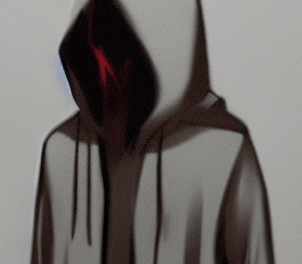
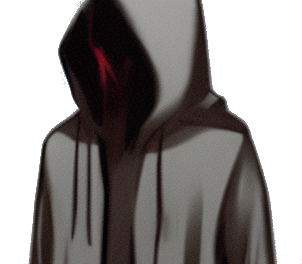
wip

diff --git a/index.html b/index.html
@@ -7,55 +7,9 @@
     <meta name="viewport" content="width=device-width, initial-scale=1.0">
     <title>Document</title>
     <script src="index.js" defer></script>
-    <style media="screen">
-        * {
-         margin: 0;
-         padding: 0;
-       }
-     
-    
-       body {
-         background-color: #10101a;
-         /*display: flex;*/
-         justify-content: center;
-         align-items: center;
-         width: 100%;
-         height: 100%;
-         overflow: hidden;
-         z-index: -2;
-       }
-    
-    
-    
-       hr {
-         width: 1px;
-         border-color: transparent;
-         border-right-color: rgba(94, 93, 96, 0.863);
-         border-right-width: 5px;
-         position: absolute;
-         bottom: 100%;
-         transform-origin: 100% 50%;
-         animation-name: rain;
-         animation-duration: .5s;
-         animation-timing-function: linear;
-         animation-iteration-count: infinite;
-         z-index: -1;
-       }
-    
-       @keyframes rain {
-         from {
-           transform: rotate(90deg) translateX(0);
-         } 
-         to {
-           transform: rotate(90deg) translateX(calc(100vh));
-         }
-       }
-    
-    
-      </style>
 </head>
-<body>
-    <div>
+<body class="container">
+    <div class="robotSection">
         <div class="mainProfile">
             <div class="profileBorder">
                 <img class="robotProfile" width="100" height="100"><br>
@@ -64,7 +18,7 @@
         </div>
         <div class="dialogBox"></div>
     </div>
-    <div>
+    <div class="visitorSection">
         <div class="visitorProfile">
             <div class="profileBorder">
                 <img class="visitorProfileImg" width="100" height="100"><br>
@@ -72,31 +26,15 @@
             <p class="hoodedName">Nameless</p>
         </div>
         <div class="dialogBox"></div>
-    </div>
-    <label class="responseButton">
-        <button type="button" class="whoAreYou">Who are you?</button>
-        <button type="button" class="aboutYourself">Tell me about yourself.</button>
-        <button type="button" class="whatPowersDoYouHave">What powers do you have?</button>
-        <button type="button" class="showMeWhatYouGot">Show me what you can do.</button>
-        <button type="button" class="whatTimeIsIt">Tell me the time.</button>
-    </label>
+        <label class="responseButton">
+          <button type="button" class="whoAreYou">Who are you?</button>
+          <button type="button" class="aboutYourself">Tell me about yourself.</button>
+          <button type="button" class="whatPowersDoYouHave">What powers do you have?</button>
+          <button type="button" class="showMeWhatYouGot">Show me what you can do.</button>
+          <button type="button" class="whatTimeIsIt">Tell me the time.</button>
+      </label>
+      </div>
+    
       
 </body>
-<script type="text/javascript">
-
-    let hrElement;
-    let counter = 200;
-    for (let i = 0; i < counter; i++) {
-      hrElement = document.createElement("HR");
-      
-        hrElement.style.left = Math.floor(Math.random() * window.innerWidth) + "px";
-        hrElement.style.animationDuration = 2.2 + Math.random() * 0.9 + "s";
-        hrElement.style.animationDelay = Math.random() * 10 + "s";
-     
-      document.body.appendChild(hrElement);
-    }
-  
-   
-  
-  </script>
 </html>

diff --git a/index.js b/index.js
@@ -3,17 +3,36 @@
     It's unexpected to receive visiters this time of year
 */
 
+//Logic for rain elements
+let hrElement;
+let counter = 200;
+for (let i = 0; i < counter; i++) {
+  hrElement = document.createElement("HR");
+  
+    hrElement.style.left = Math.floor(Math.random() * window.innerWidth) + "px";
+    hrElement.style.animationDuration = 2.2 + Math.random() * 0.9 + "s";
+    hrElement.style.animationDelay = Math.random() * 10 + "s";
+ 
+  document.body.appendChild(hrElement);
+}
+
+//Robot Section fade in
+let robotSection = document.querySelector('.robotSection')
+
+setTimeout(() => {
+    robotSection.classList.add("RSActive")
+}, 1000)
 
 //Animate Character speech
 let mainCharacterProfile = document.querySelector('.robotProfile')
-mainCharacterProfile.src = "robotCroppedFace5.png";
+mainCharacterProfile.src = "robotPx.png";
 mainCharacterProfile.style.marginBottom = '-4px';
 mainCharacterProfile.style.marginLeft = '3px';
 let characterMovement = 0
 
 //Animate visitor speech
 let hoodedCharacterProfile = document.querySelector('.visitorProfileImg')
-hoodedCharacterProfile.src = "hoodedFigure3.png";
+hoodedCharacterProfile.src = "visitorPx.png";
 hoodedCharacterProfile.style.marginBottom = '-4px';
 hoodedCharacterProfile.style.marginLeft = '3px';
 
@@ -48,8 +67,8 @@ let textPrompts = [
 let dialogBox = document.querySelector('.dialogBox')
 dialogBox.innerHTML = ""
 dialogBox.style.backgroundColor = "transparent";   
-dialogBox.style.height = "50px";   
-dialogBox.style.width = "400px";   
+//dialogBox.style.height = "50px";   
+//dialogBox.style.width = "400px";   
 dialogBox.style.color = "#cecee0";   
 
 function changeInnerText(innerText, delay)
@@ -59,14 +78,14 @@ function changeInnerText(innerText, delay)
     return (new Promise(resolve => {
         setTimeout(() => {
             dialogBox.innerHTML = innerText;
-            if (characterMovement === 0){
+            /*if (characterMovement === 0){
                 mainCharacterProfile.src = "robotCroppedFace6.png"
                 characterMovement = 1
             }
             else{
                 mainCharacterProfile.src = "robotCroppedFace5.png"
                 characterMovement = 0
-            }
+            }*/
             resolve("resolved")
         }, delay)
     }))
@@ -76,6 +95,7 @@ function timeout(ms) {
 }
 
 async function typeOutText(dialog){
+    //time to wait befor starting the next line of dialog passed in
     await timeout(1000)
     dialogBox.innerHTML = ""
     let tempDialog = ""
@@ -87,7 +107,8 @@ async function typeOutText(dialog){
     return 1;
 }
 
- async function typeOutMultiDialogs(diagArry){
+ async function typeOutMultiDialogs(diagArry, delayBeforeTextSequence){
+    await timeout(delayBeforeTextSequence)
     for (const diag of diagArry) {
         console.log(diag)
         await typeOutText(diag);
@@ -102,7 +123,7 @@ async function typeOutText(dialog){
       responseButton1.classList.add("RBActive")
       console.log("finished noah")
 }
-typeOutMultiDialogs(textPrompts)
+typeOutMultiDialogs(textPrompts,3000)
 //wrap this call in another function.
 //After dialog is finished, create response options
 

diff --git a/style.css b/style.css
@@ -1,21 +1,72 @@
+* {
+    margin: 0;
+    padding: 0;
+}
+
+:root {
+    --main-txt-color: #cecee0;
+}
+  
+body {
+    background-color: #10101a;
+    /*display: flex;*/
+    /*justify-content: center;
+    align-items: center;*/
+    width: 100%;
+    height: 100%;
+    overflow: hidden;
+    z-index: -2;
+    color: var(--main-txt-color);
+}
+.container{
+    display: grid;
+    align-items: center;
+    justify-items: center;
+    grid-template-columns: 1fr 1fr 1fr;
+    grid-template-rows: 50vh 1fr;
+}
+
+hr {
+    width: 1px;
+    border-color: transparent;
+    border-right-color: rgba(94, 93, 96, 0.863);
+    border-right-width: 5px;
+    position: absolute;
+    bottom: 100%;
+    transform-origin: 100% 50%;
+    animation-name: rain;
+    animation-duration: .5s;
+    animation-timing-function: linear;
+    animation-iteration-count: infinite;
+    z-index: -1;
+}
+
+@keyframes rain {
+    from {
+        transform: rotate(90deg) translateX(0);
+    } 
+    to {
+        transform: rotate(90deg) translateX(calc(100vh));
+    }
+}
+
+@keyframes fadeIn { 
+    0% {
+        opacity: 0;
+    }
+
+    100% {
+        opacity: 1;
+    }
+}
 .profileBorder{
-    border: 3px solid #cecee0;
+    border: 3px solid var(--main-txt-color);
     background-color: transparent;
     border-radius: 10px;
     margin-right: 10px;
     margin-bottom: 5px;
     width: fit-content;
 }
-
-@keyframes fadeIn { 
-    0% {
-      opacity: 0;
-    }
-  
-    100% {
-      opacity: 1;
-    }
-  }
 
 .responseButton{
     display: none;
@@ -26,10 +77,26 @@
     display:block;
     margin: 5px;
     border-color: black;
-    color: #cecee0;
+    color: var(--main-txt-color);
     background-color: transparent;
     animation: fadeIn 2s;
 }
+.visitorSection{
+    animation: fadeIn 2s;
+}
+.robotSection{
+    visibility: hidden;
+    justify-self: stretch;
+    border: 1rem solid;
+    width: fit-content;
+}
+.robotSection.RSActive{
+    visibility: visible;
+    animation: fadeIn 2s;
+    justify-self: stretch;
+
+}
+
 /*.profileBorder{
     border: dashed red;
 }
@@ -37,7 +104,7 @@
     border: dashed red;
 }*/
 .robotName{
-    color:#cecee0;
+    color: var(--main-txt-color);
     /*border: dashed red;*/
     text-align: center;
     width:fit-content;
